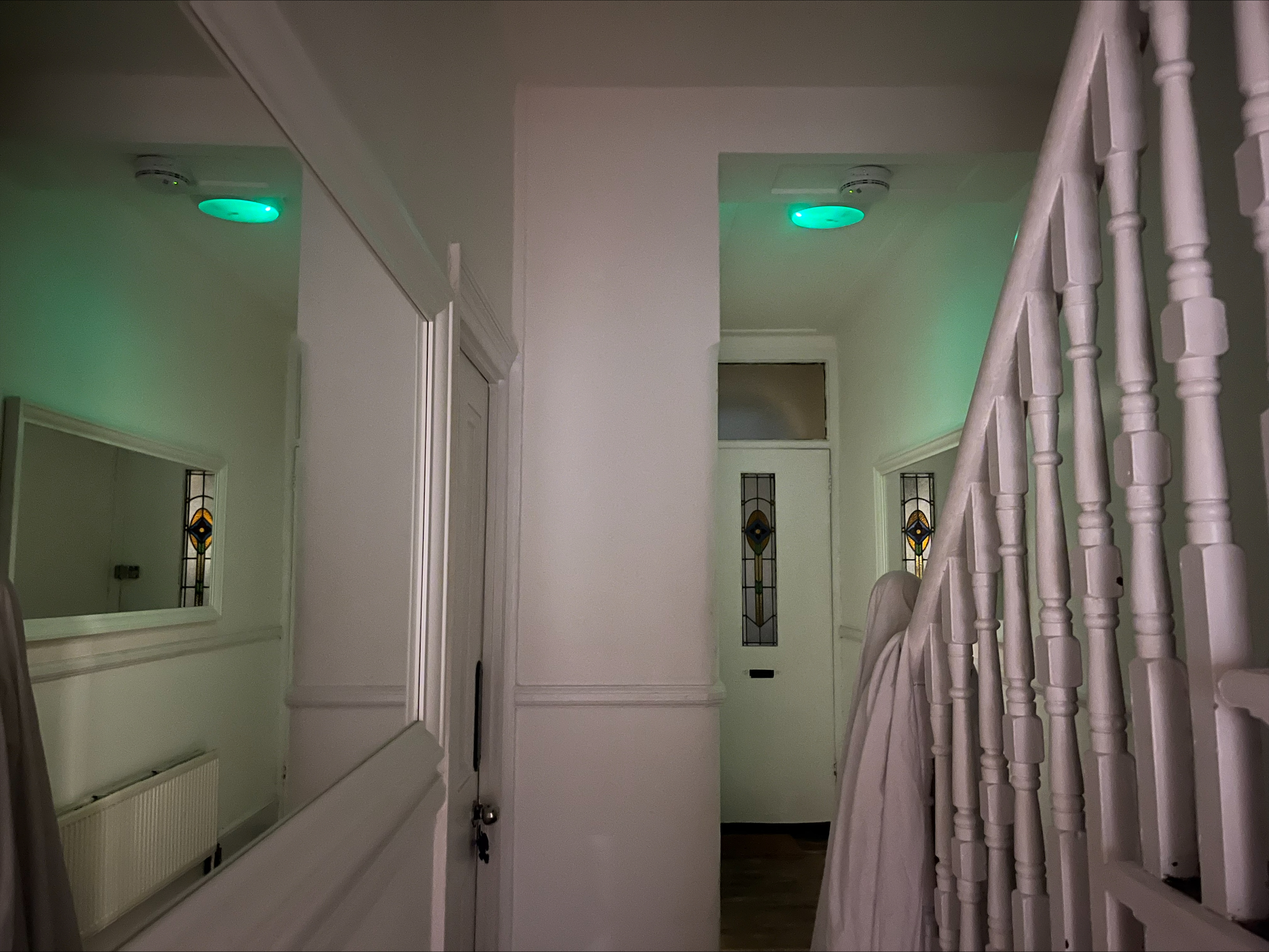
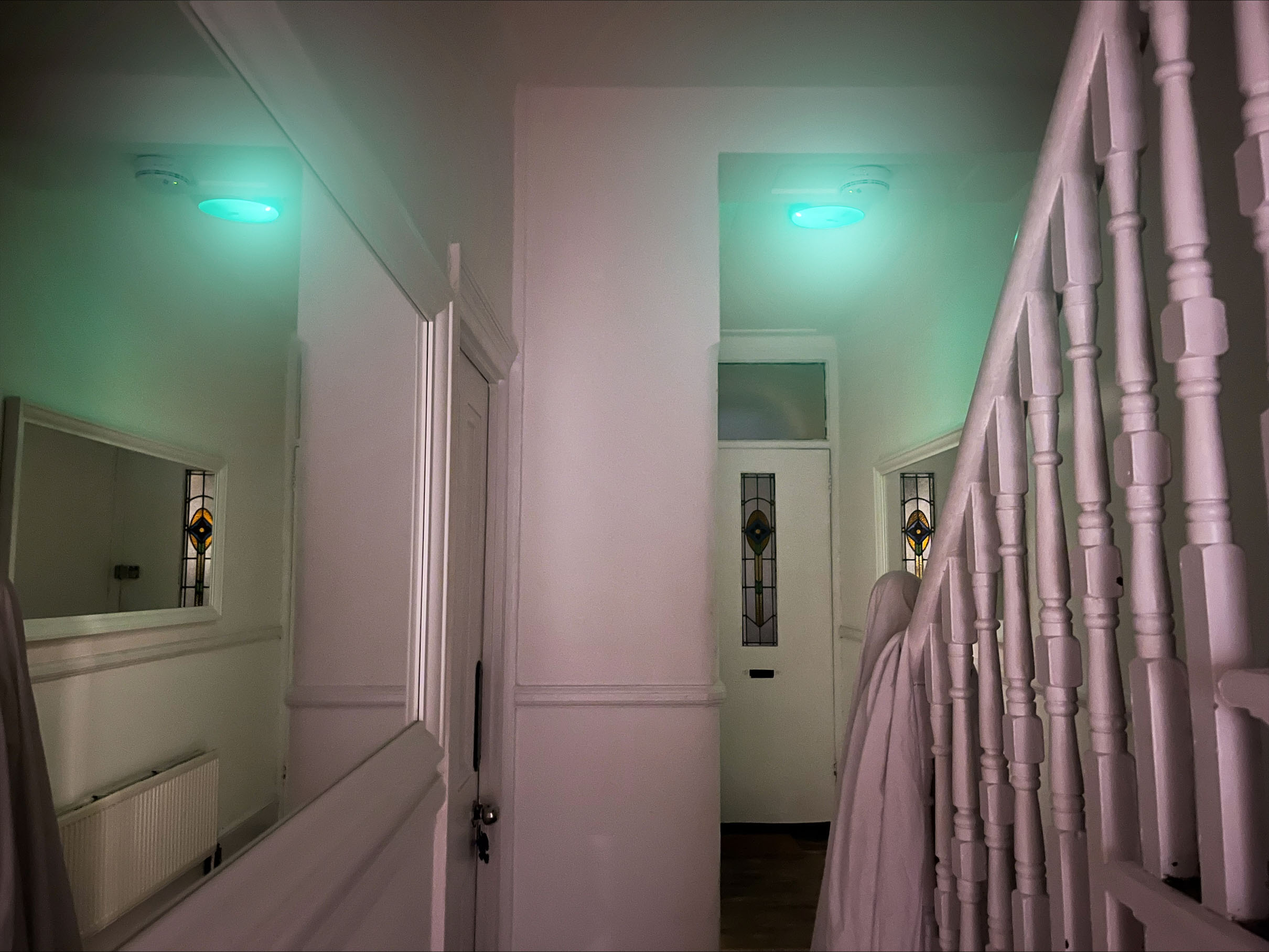
ALL PAGES FINISHED

Changed region(s): [[0.5269, 0.0308, 0.8058, 0.4626], [0.062, 0.0308, 0.3409, 0.37]]

diff --git a/pages/socool3.html b/pages/socool3.html
@@ -12,18 +12,18 @@
 <div class="container11">
 
 <div style="position:relative" class="simpleimage">
-    <img src="../images/img38.jpeg" style="width:70%;">
+    <img src="../images/img44.jpeg" style="width:70%;">
     <div style="position:absolute; left: 350px; top: 300px;"><a class="next5" href=
-        "../pages/socool1.html">Left</a></div>
+        "../pages/socool5.html">Left</a></div>
         <div style="position:absolute; right: 350px; top: 300px;"><a class="next5" href=
-            "../pages/socool2.html">Right</a></div>
+            "../pages/socool6.html">Right</a></div>
             <div style="position:absolute; right: 475px; top: 300px;"><a class="next5" href=
-                "../pages/socool3.html">Forwards</a></div>
+                "../pages/socool7.html">Forwards</a></div>
 </div>
 
 <div class="text1">
-<h3>Get to your bedroom. You've had too much to drink and it's about to start showing.</h3>
-<p>Run. Although you might stumble, you need to run!</p>
+<h3>Now we're getting somewhere.</h3>
+<p>Man, those lights are bright.</p>
 
 </div>
     

diff --git a/pages/socool7.html b/pages/socool7.html
@@ -1,0 +1,30 @@
+<!DOCTYPE html>
+<html lang="en">
+<head>
+    <link rel="stylesheet" href="../styles.css">
+    <meta charset="UTF-8">
+    <meta name="viewport" content="width=device-width, initial-scale=1.0">
+    <title>So Cool</title>
+</head>
+<body>
+
+
+<div class="container11">
+
+<div style="position:relative" class="simpleimage">
+    <img src="../images/img45.jpeg" style="width:70%;">
+</div>
+
+<div class="text1">
+    <h3>Phew! You made it. Lucky you made it through those stumbles, 
+        learned from your mistakes and made it to this paradise.
+    </h3>
+
+    <a class="getrichquick7" href= "../index.html"> Try a new challenge!
+
+</div>
+    
+</div>
+
+</body>
+</html>

diff --git a/pages/socool5.html b/pages/socool5.html
@@ -1,0 +1,28 @@
+<!DOCTYPE html>
+<html lang="en">
+<head>
+    <link rel="stylesheet" href="../styles.css">
+    <meta charset="UTF-8">
+    <meta name="viewport" content="width=device-width, initial-scale=1.0">
+    <title>So Cool</title>
+</head>
+<body>
+
+
+<div class="container11">
+
+<div style="position:relative" class="simpleimage">
+    <img src="../images/img42.jpeg" style="width:70%;">
+    <div style="position:absolute; left: 350px; top: 300px;"><a class="next5" href=
+        "../pages/socool3.html">Right</a></div>
+</div>
+
+<div class="text1">
+    <h3>Whoa! You're stumbling, get back on track!</h3>
+
+</div>
+    
+</div>
+
+</body>
+</html>

diff --git a/pages/socool6.html b/pages/socool6.html
@@ -1,0 +1,28 @@
+<!DOCTYPE html>
+<html lang="en">
+<head>
+    <link rel="stylesheet" href="../styles.css">
+    <meta charset="UTF-8">
+    <meta name="viewport" content="width=device-width, initial-scale=1.0">
+    <title>So Cool</title>
+</head>
+<body>
+
+
+<div class="container11">
+
+<div style="position:relative" class="simpleimage">
+    <img src="../images/img37.jpeg" style="width:70%;">
+    <div style="position:absolute; left: 350px; top: 300px;"><a class="next5" href=
+        "../pages/socool3.html">Left</a></div>
+</div>
+
+<div class="text1">
+    <h3>Whoa! You're stumbling, get back on track!</h3>
+
+</div>
+    
+</div>
+
+</body>
+</html>
